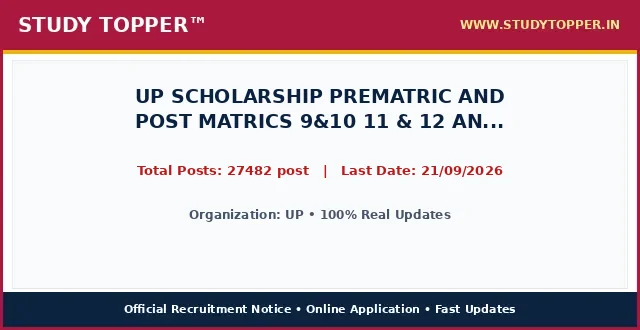
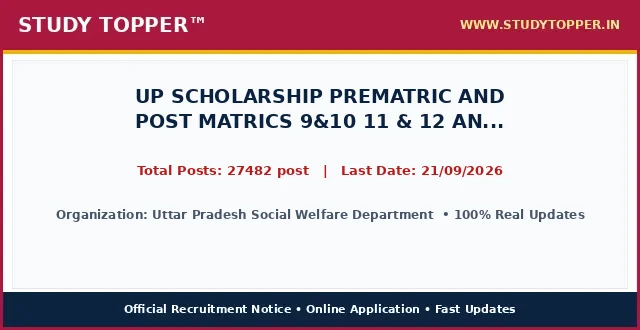
chore(lifecycle): daily auto-sort vacancies and update active dates

Changed region(s): [[0.0625, 0.6364, 0.9375, 0.6667]]

diff --git a/pages/up-scholarship-2026.html b/pages/up-scholarship-2026.html
@@ -987,8 +987,8 @@ ul.wp-block-latest-posts a:hover {
 <main class="site-main" id="main">
 <div class="gb-container gb-container-b39c368c">
 <h1 class="gb-headline gb-headline-e52a0102 gb-headline-text" style="font-size: 22px; font-weight: 700; color: #0000cd; text-align: left; margin: 8px 0 4px 0; line-height: 1.3; width: 100%; font-family: '-apple-system, BlinkMacSystemFont, 'Segoe UI', Roboto, 'Helvetica Neue', Arial, sans-serif', Times, serif, Hind, sans-serif;">UP SCHOLARSHIP PREMATRIC AND POST MATRICS 9&10 11 & 12 AND OTHER COURSES BA BSC MSC BED BTC ONLINE FORM 2026</h1>
-<div class="gb-container gb-container-659bd175"><p style="color: #cd0808; font-weight: 700; font-size: 15px; margin: 2px 0 7px 0; text-align: left; font-family: '-apple-system, BlinkMacSystemFont, 'Segoe UI', Roboto, 'Helvetica Neue', Arial, sans-serif', Times, serif, Hind, sans-serif;">Post Date: August 22, 2026 12:34 PM</p></div>
-<p class="gb-headline gb-headline-550ae316 short_Details gb-headline-text" style="width: 100%; max-width: 100%; font-size: 16.8px; line-height: 1.55; color: #000000; text-align: justify; text-justify: inter-word; margin: 8px 0 14px 0; display: block; font-family: '-apple-system, BlinkMacSystemFont, 'Segoe UI', Roboto, 'Helvetica Neue', Arial, sans-serif', Times, serif, Hind, sans-serif;"><strong style="color: #0000cd;">UP</strong> has officially published the recruitment notice <strong style="color: #cd0808;">UP SCHOLARSHIP PREMATRIC AND POST MATRICS 9&10 11 & 12 AND OTHER COURSES BA BSC MSC BED BTC ONLINE FORM 2026</strong> under notification number 2026. Online applications are invited for 27482 post across multiple departments and cadre positions. Interested candidates possessing the requisite educational qualifications and falling between 18 Years to 40 Years can complete their online registration before the application deadline of 21/09/2026. Applicants should read the eligibility criteria, category reservation rules, and exam scheme thoroughly before submitting applications.</p>
+<div class="gb-container gb-container-659bd175"><p style="color: #cd0808; font-weight: 700; font-size: 15px; margin: 2px 0 7px 0; text-align: left; font-family: '-apple-system, BlinkMacSystemFont, 'Segoe UI', Roboto, 'Helvetica Neue', Arial, sans-serif', Times, serif, Hind, sans-serif;">Post Date: August 22, 2026 01:05 PM</p></div>
+<p class="gb-headline gb-headline-550ae316 short_Details gb-headline-text" style="width: 100%; max-width: 100%; font-size: 16.8px; line-height: 1.55; color: #000000; text-align: justify; text-justify: inter-word; margin: 8px 0 14px 0; display: block; font-family: '-apple-system, BlinkMacSystemFont, 'Segoe UI', Roboto, 'Helvetica Neue', Arial, sans-serif', Times, serif, Hind, sans-serif;"><strong style="color: #0000cd;">Uttar Pradesh Social Welfare Department (UP Scholarship)</strong> has officially published the recruitment notice <strong style="color: #cd0808;">UP SCHOLARSHIP PREMATRIC AND POST MATRICS 9&10 11 & 12 AND OTHER COURSES BA BSC MSC BED BTC ONLINE FORM 2026</strong> under notification number Official Notification 2026. Online applications are invited for 27482 post across multiple departments and cadre positions. Interested candidates possessing the requisite educational qualifications and falling between 18 Years to 40 Years can complete their online registration before the application deadline of 21/09/2026. Applicants should read the eligibility criteria, category reservation rules, and exam scheme thoroughly before submitting applications.</p>
 <div class="gb-container gb-container-9849916c"><div class="social-buttons-compact" style="display: flex; justify-content: flex-start; align-items: center; gap: 10px; margin: 10px 0 16px 0; width: 100%;"><a class="social-btn-compact wa" href="https://whatsapp.com/channel/0029Va9xyz" rel="noopener" style="background-color: #00d084; color: #ffffff; padding: 10px 18px; border-radius: 4px; text-decoration: none; font-weight: bold; font-size: 15.5px; display: inline-flex; align-items: center; justify-content: center; height: auto;" target="_blank">WhatsApp</a><a class="social-btn-compact tg" href="https://t.me/studytopperofficial" rel="noopener" style="background-color: #0088cc; color: #ffffff; padding: 10px 18px; border-radius: 4px; text-decoration: none; font-weight: bold; font-size: 15.5px; display: inline-flex; align-items: center; justify-content: center; height: auto;" target="_blank">Telegram</a></div></div>
 <div class="gb-container gb-container-f58e6ca1" style="border: 2px solid #5b032f; border-radius: 4px; overflow: hidden; margin: 15px 0 20px 0; background-color: #ffffff; width: 100%; box-sizing: border-box;">
 <h2 class="gb-headline gb-headline-2ca5a791 gb-headline-text" style="font-size: 16px; font-weight: 700; text-align: center; color: #ef0303; line-height: 1.3; padding: 6px 4px; margin: 0; background: #ffffff; font-family: '-apple-system, BlinkMacSystemFont, 'Segoe UI', Roboto, 'Helvetica Neue', Arial, sans-serif', Times, serif, Hind, sans-serif;">UP SCHOLARSHIP PREMATRIC AND POST MATRICS 9&10 11 & 12 AND OTHER COURSES BA BSC MSC BED BTC ONLINE FORM 2026 &ndash; Latest Details &amp; Updates</h2>
@@ -1050,7 +1050,7 @@ ul.wp-block-latest-posts a:hover {
     <div style="background-color: #046132; color: #ffffff; padding: 8px 10px; font-size: 17px; font-weight: 700; text-align: center; font-family: '-apple-system, BlinkMacSystemFont, 'Segoe UI', Roboto, 'Helvetica Neue', Arial, sans-serif', Times, serif, Hind, sans-serif;">Uttar Pradesh Social Welfare Department (UP Scholarship) : Age Limits As On 01/08/2026</div>
     <div style="padding: 12px 14px; background-color: #ffffff;">
       <ul style="padding-left: 20px; margin: 0; list-style-type: disc; text-align: left; font-size: 14pt; line-height: 1.6; font-family: '-apple-system, BlinkMacSystemFont, 'Segoe UI', Roboto, 'Helvetica Neue', Arial, sans-serif', Times, serif, Hind, sans-serif;">
-        <li><span style="font-size: 14pt;">Minimum Age : <strong>18 Years (As per post rules)</strong></span></li><li><span style="font-size: 14pt;">Maximum Age : <strong>40 Years (As per post rules)</strong></span></li><li><span style="font-size: 14pt;">Age Relaxation : <strong>Age Relaxation Extra as per UP Recruitment Rules.</strong></span></li>
+        <li><span style="font-size: 14pt;">Minimum Age : <strong>18 Years (As per post rules)</strong></span></li><li><span style="font-size: 14pt;">Maximum Age : <strong>40 Years (As per post rules)</strong></span></li><li><span style="font-size: 14pt;">Age Relaxation : <strong>Age Relaxation Extra as per Uttar Pradesh Social Welfare Department (UP Scholarship) Recruitment Rules.</strong></span></li>
       </ul>
     </div>
   </div>
@@ -1079,9 +1079,9 @@ ul.wp-block-latest-posts a:hover {
 <th style="background-color: #f53c00; color: #ffffff; padding: 6px 10px; text-align: center; border: 1px solid #d35400; font-size: 15px; font-weight: 700; font-family: '-apple-system, BlinkMacSystemFont, 'Segoe UI', Roboto, 'Helvetica Neue', Arial, sans-serif', Times, serif, Hind, sans-serif;">Eligibility Criteria</th>
 </tr>
 <tr>
-<td style="padding: 8px; border: 1px solid #ddd; font-weight: bold;">UP UP SCHOLARSHIP PREMATRIC AND POST MATRICS 9&10 11 & 12 AND OTHER COURSES BA BSC MSC BED BTC ONLINE FORM 2026</td>
+<td style="padding: 8px; border: 1px solid #ddd; font-weight: bold;">UP SCHOLARSHIP PREMATRIC AND POST MATRICS 9&10 11 & 12 AND OTHER COURSES BA BSC MSC BED BTC ONLINE FORM 2026</td>
 <td style="padding: 8px; border: 1px solid #ddd; text-align: center; font-weight: bold;">27482 post</td>
-<td style="padding: 8px; border: 1px solid #ddd;">Passed relevant Educational Qualification from Any Recognized Board / University in India. Read full official notification for post-wise details.</td>
+<td style="padding: 8px; border: 1px solid #ddd;">Passed prescribed Educational Qualification from Any Recognized Board / University in India. Read full official notification for post-wise eligibility criteria.</td>
 </tr>
 </tbody>
 </table>
